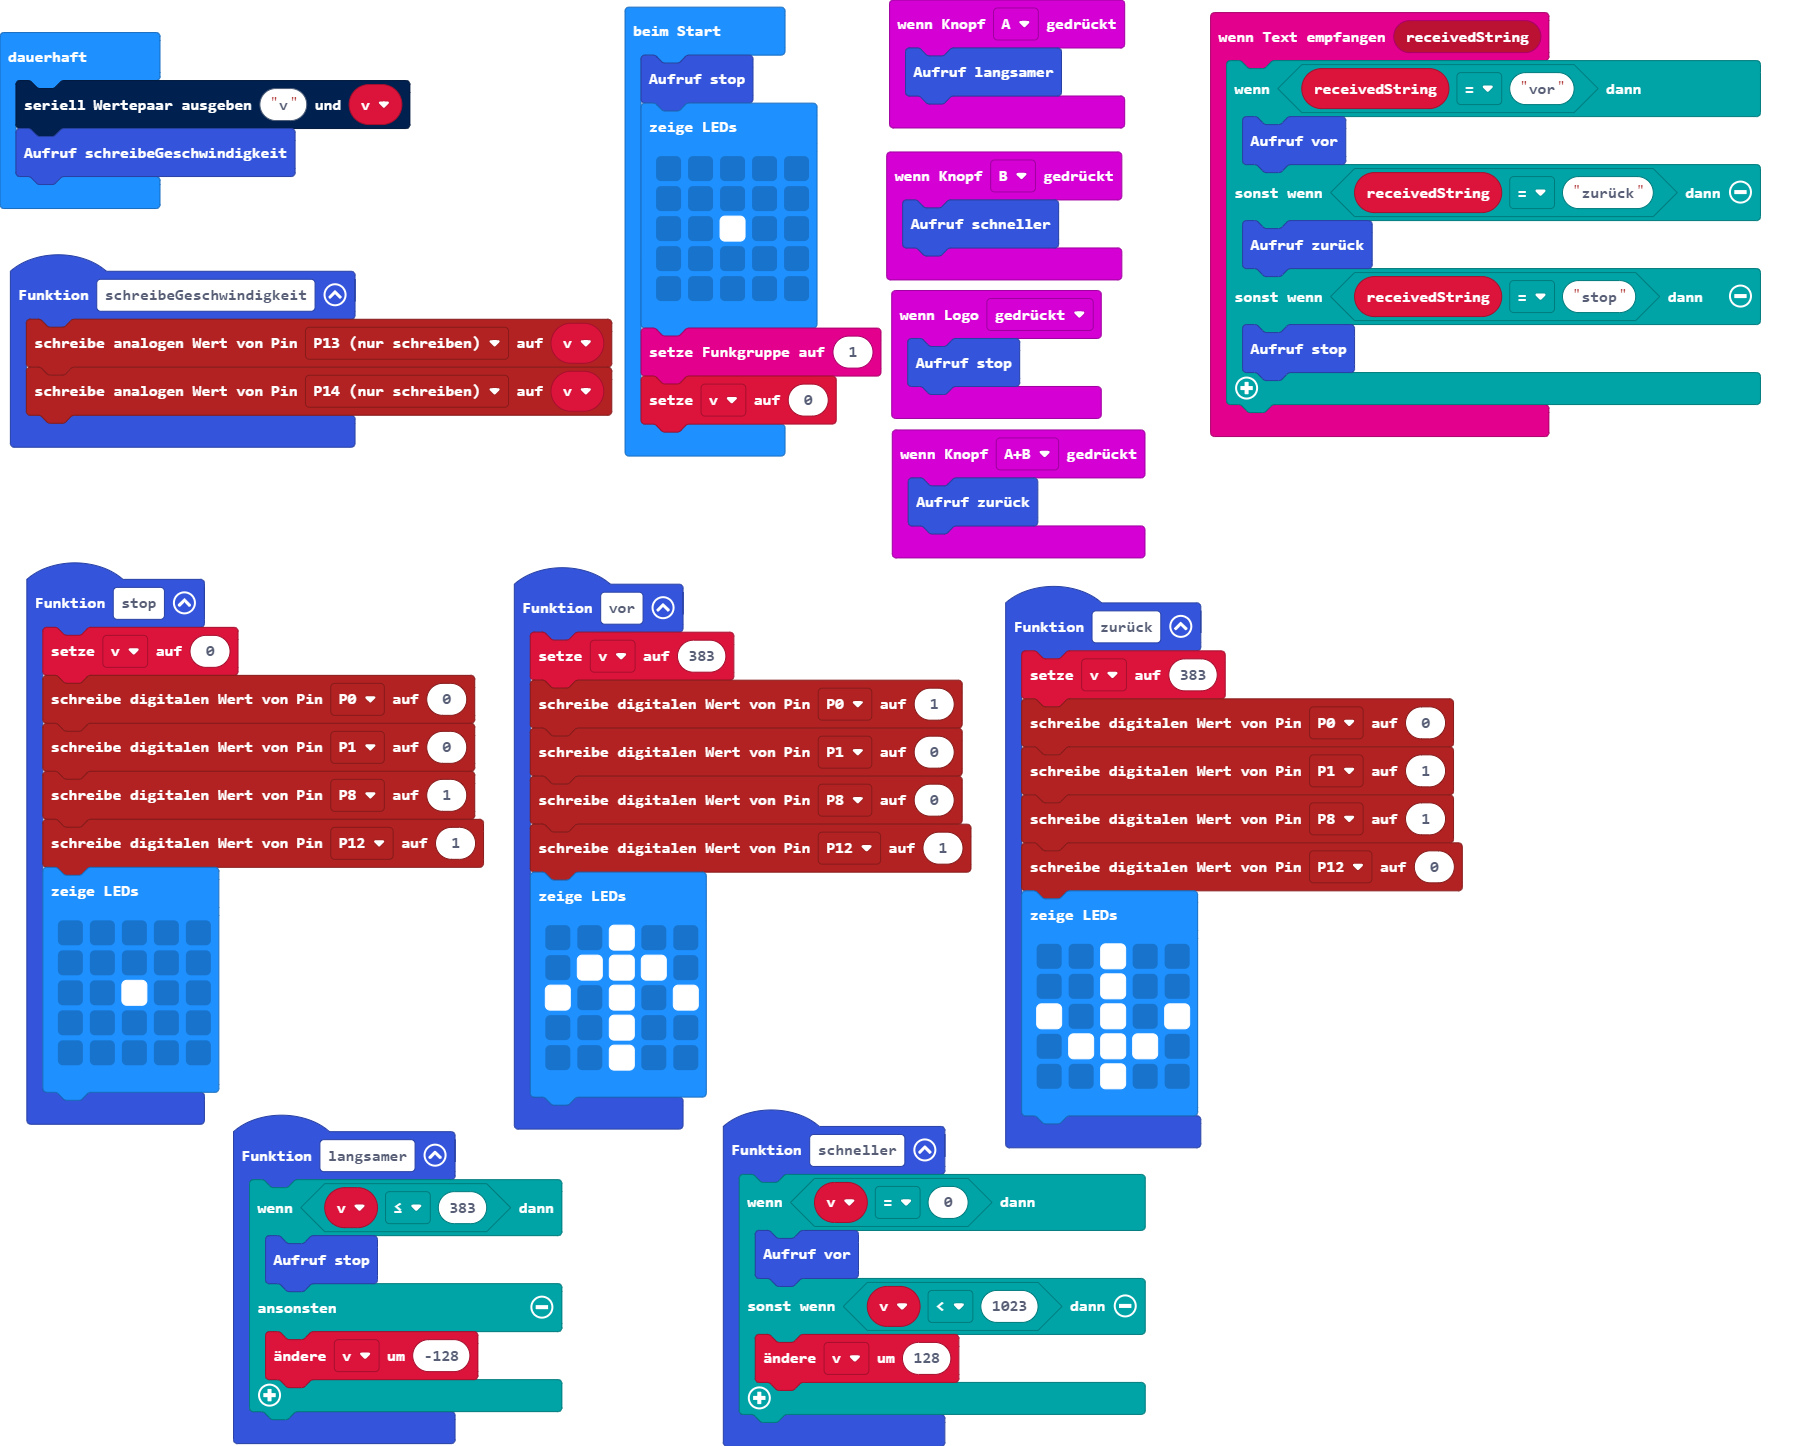
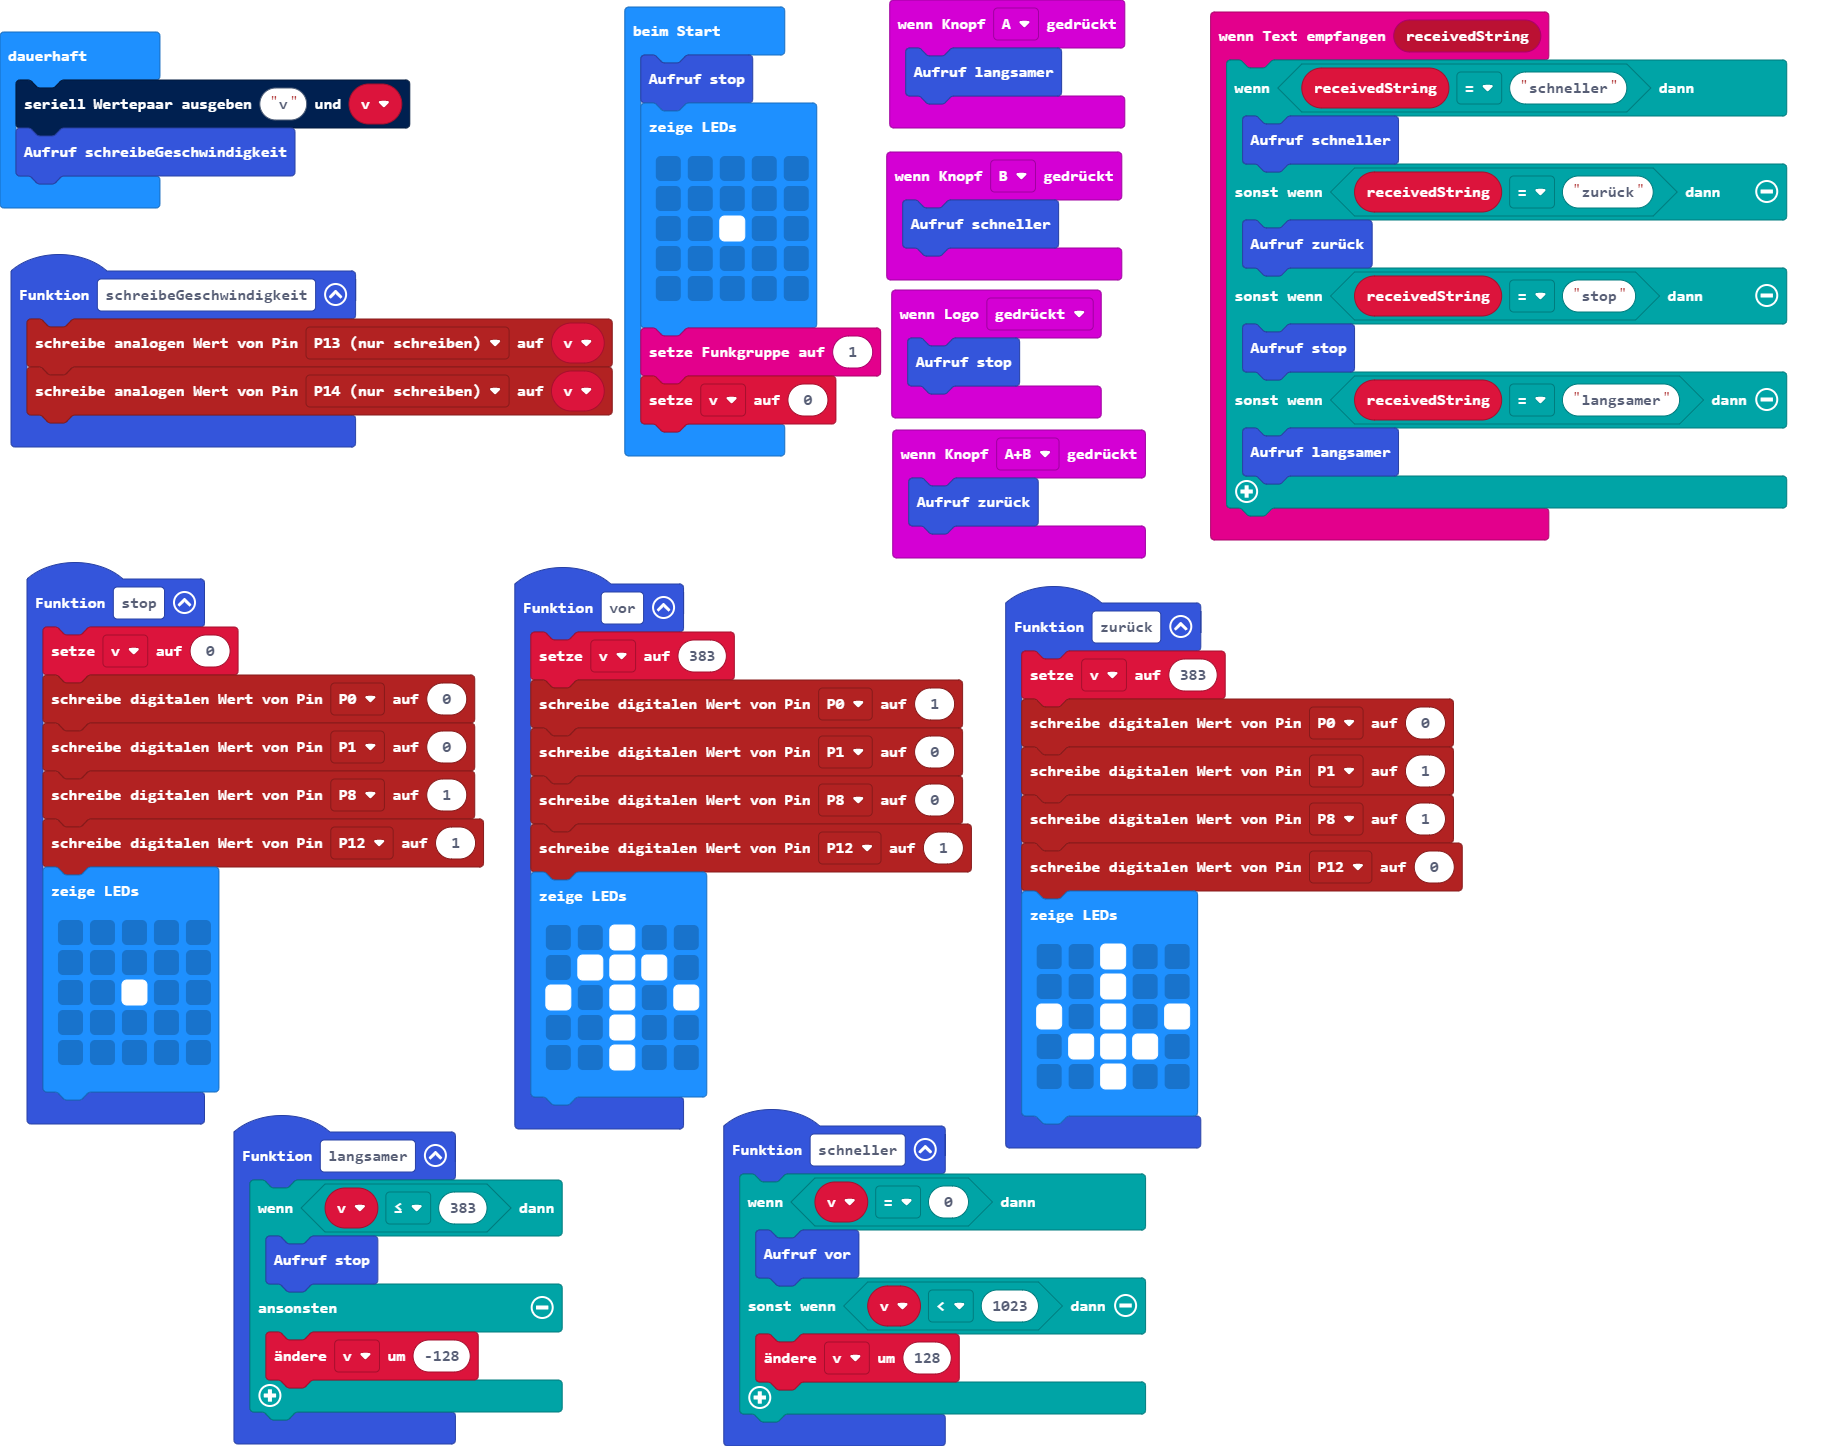
schneller/langsamer

diff --git a/main.ts b/main.ts
@@ -57,12 +57,14 @@ input.onButtonPressed(Button.AB, function () {
     zurück()
 })
 radio.onReceivedString(function (receivedString) {
-    if (receivedString == "vor") {
-        vor()
+    if (receivedString == "schneller") {
+        schneller()
     } else if (receivedString == "zurück") {
         zurück()
     } else if (receivedString == "stop") {
         stop()
+    } else if (receivedString == "langsamer") {
+        langsamer()
     }
 })
 input.onButtonPressed(Button.B, function () {
